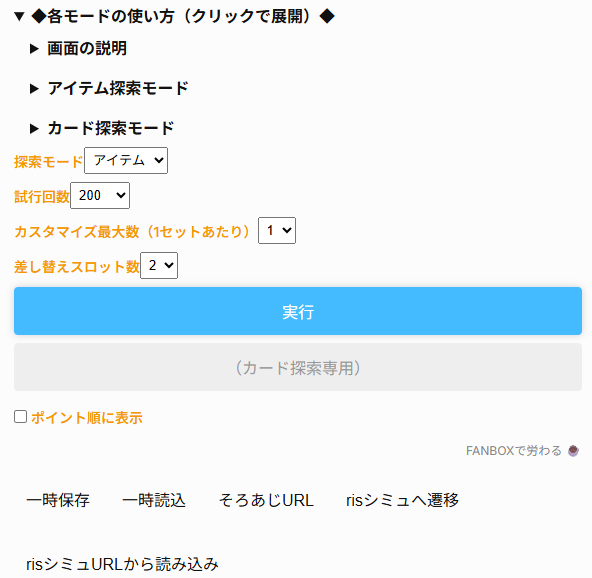
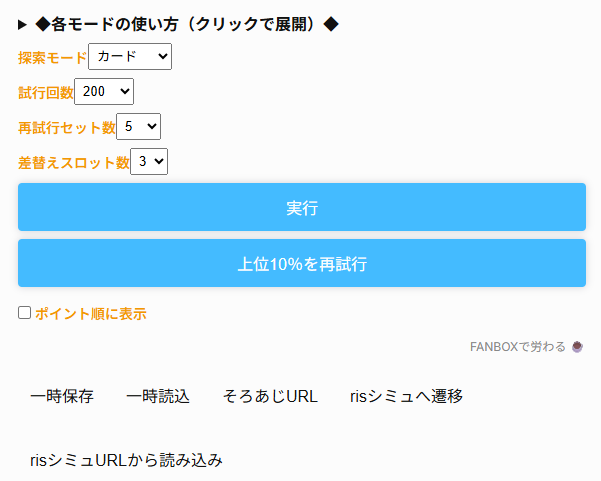
Fixed card explorer logic, details

diff --git a/gakumas-tools/components/DeckExplorer/DeckExplorer.js b/gakumas-tools/components/DeckExplorer/DeckExplorer.js
@@ -100,6 +100,7 @@ export default function DeckExplorer() {
   const [comboPoints, setComboPoints] = useState(new Map()); // 組み合わせが持つポイント
   const [sortByPoints, setSortByPoints] = useState(false); // ポイント順にソート
   const [comboTrialCounts, setComboTrialCounts] = useState(new Map()); // 累計試行回数
+  const [retrySetCount, setRetrySetCount] = useState(1); // 再試行のマルチセット回数
   const [targetSlotCount, setTargetSlotCount] = useState(2); // 入替先スロット候補
   const [running, setRunning] = useState(false);
   const [topCombos, setTopCombos] = useState([]);
@@ -368,57 +369,46 @@ export default function DeckExplorer() {
         await new Promise((r) => setTimeout(r, 0));
       }
     } else if (explorationMode === "card") {
-      // メモリーセット確認
-      if (!loadout.memorySets || !Array.isArray(loadout.memorySets)) {
-        if (loadout.skillCardIdGroups?.[0]) {
-          const fixed = fixLoadout(loadout);
-          setLoadout(fixed);
-          setRunning(false);
-          setTimeout(() => runSimulation(), 0);
-          return;
-        } else {
-          alert("カード探索を行うには memorySets が必要です。");
-          setRunning(false);
-          return;
-        }
+    // --- memorySets の存在チェックと修復処理 ---
+    if (!loadout.memorySets || !Array.isArray(loadout.memorySets) || !loadout.memorySets[0]) {
+      if (loadout.skillCardIdGroups?.[0]) {
+        const fixed = fixLoadout(loadout);
+        setLoadout(fixed);
+        setRunning(false);
+        setTimeout(() => runSimulation(), 0);
+        return;
+      } else {
+        alert("カード探索を行うには memorySets が必要です。");
+        setRunning(false);
+        return;
       }
-      // ターゲットスロット設定
-      const targetSlots = [];
-      const selectedIndices = [2, 3, 4, 5].slice(-targetSlotCount);
+    }
 
-      for (let groupIndex = 0; groupIndex < loadout.memorySets.length; groupIndex++) {
-        for (const slotIndex of selectedIndices) {
-          targetSlots.push({ groupIndex, slotIndex });
-        }
+    // --- ターゲットスロット設定 ---
+    const selectedIndices = [2, 3, 4, 5].slice(-targetSlotCount);
+    const targetSlots = [];
+
+    for (let groupIndex = 0; groupIndex < loadout.memorySets.length; groupIndex++) {
+      for (const slotIndex of selectedIndices) {
+        targetSlots.push({ groupIndex, slotIndex });
       }
+    }
 
-      const seenLoadoutKeys = new Set();
+    // --- 初期化 ---
+    const seenLoadoutKeys = new Set();
 
-      if (!loadout.memorySets || !loadout.memorySets[0]) {
-        if (loadout.skillCardIdGroups?.[0]) {
-          const fixed = fixLoadout(loadout);
-          setLoadout(fixed);
-          setRunning(false);
-          setTimeout(() => runSimulation(), 0);
-          return;
-        } else {
-          alert("カード探索を行うには memorySets[0] が必要です。");
-          setRunning(false);
-          return;
-        }
+    // --- 候補カードの整形 ---
+    const candidateCards = [];
+    for (let i = 0; i < cardCandidates.length; i++) {
+      if (cardCandidates[i]) {
+        candidateCards.push({
+          cardId: cardCandidates[i],
+          customization: cardCustomizationsList[i] || [],
+        });
       }
+    }
 
-      const candidateCards = [];
-      for (let i = 0; i < cardCandidates.length; i++) {
-        if (cardCandidates[i]) {
-          candidateCards.push({
-            cardId: cardCandidates[i],
-            customization: cardCustomizationsList[i] || [],
-          });
-        }
-      }
-
-      const maxReplace = Math.min(candidateCards.length, targetSlots.length);
+    const maxReplace = Math.min(candidateCards.length, targetSlots.length);
 
       // 元構成を常に含める（順序無視のキー）
       {
@@ -515,10 +505,11 @@ export default function DeckExplorer() {
 
             if (skip) continue;
 
-            const overLimit = newLoadout.customizationGroups.some((group) => {
-              return countCustomizations(group) > customizationLimit;
-            });
-            if (overLimit) continue;
+          const overLimit = newLoadout.customizationGroups.some((group, i) => {
+            const originalCount = countCustomizations(loadout.customizationGroups?.[i] || []);
+            return countCustomizations(group) > originalCount;
+          });
+          if (overLimit) continue;
 
             // 順序を無視したカスタマイズ構成による重複検出
             const sortedSets = newLoadout.memorySets.map((set, gi) => {
@@ -585,74 +576,89 @@ export default function DeckExplorer() {
     console.time("resimulation");
 
     const reevaluated = [];
+    const seenKeys = new Set();
 
-    // 上位スコアから再試行対象を選出（最低10%を含める）
     const maxAvg = initialCombos[0].avg;
     const threshold = maxAvg * 0.9;
     const sorted = [...initialCombos].sort((a, b) => b.avg - a.avg);
     const requiredCount = Math.ceil(initialCombos.length * 0.1);
 
-    // 有効な loadout を持つものだけ対象にする
     const selectedCombos = sorted.filter(
       (entry) => entry.avg >= threshold && entry.result?.loadout
     );
 
-    // 不足分をスコア順で追加（安全な loadout を持つものだけ）
     let i = 0;
     while (selectedCombos.length < requiredCount && i < sorted.length) {
       const next = sorted[i];
       i++;
-      if (
-        next?.result?.loadout &&
-        !selectedCombos.includes(next)
-      ) {
+      if (next?.result?.loadout && !selectedCombos.includes(next)) {
         selectedCombos.push(next);
       }
     }
 
-    for (const entry of selectedCombos) {
-      const newLoadout = entry.result?.loadout || loadout;
-      const newConfig = new IdolStageConfig(
-        new IdolConfig(newLoadout),
-        new StageConfig(stage)
-      );
+    for (let setIndex = 0; setIndex < retrySetCount; setIndex++) {
+      const currentSet = [];
 
-      const { result, avg } = await runSimulationWithWorkers(
-        workersRef.current,
-        newConfig,
-        strategy,
-        numRuns
-      );
+      for (let index = 0; index < selectedCombos.length; index++) {
+        const entry = selectedCombos[index];
+        const newLoadout = entry.result?.loadout || loadout;
+        const newConfig = new IdolStageConfig(
+          new IdolConfig(newLoadout),
+          new StageConfig(stage)
+        );
 
-      reevaluated.push({ result: { ...result, loadout: newLoadout }, avg });
-      await new Promise((r) => setTimeout(r, 0));
+        const { result } = await runSimulationWithWorkers(
+          workersRef.current,
+          newConfig,
+          strategy,
+          numRuns
+        );
+
+        const scores = result?.scores || [];
+        const avg = scores.length
+          ? scores.reduce((sum, v) => sum + v, 0) / scores.length
+          : 0;
+
+        const key = getLoadoutKey(newLoadout);
+        seenKeys.add(key);
+
+        const item = {
+          result: { ...result, loadout: newLoadout },
+          avg,
+          key,
+        };
+
+        reevaluated.push(item);
+        currentSet.push(item);
+
+        // 累計試行回数を加算（即時でOK）
+        setComboTrialCounts((prev) => {
+          const updated = new Map(prev);
+          updated.set(key, (updated.get(key) || 0) + numRuns);
+          return updated;
+        });
+
+        await new Promise((r) => setTimeout(r, 0));
+      }
+
+      // セット単位でポイント加算（スコア順に並べ替えて順位に応じて加点）
+      currentSet.sort((a, b) => b.avg - a.avg);
+      setComboPoints((prev) => {
+        const updated = new Map(prev);
+        currentSet.forEach((entry, index) => {
+          const points = Math.max(0, 20 - index);
+          updated.set(entry.key, (updated.get(entry.key) || 0) + points);
+        });
+        return updated;
+      });
     }
 
-    // 組み合わせにポイント加算
-    setComboPoints((prev) => {
-      const updated = new Map(prev);
-      reevaluated.forEach((entry, index) => {
-        const key = getLoadoutKey(entry.result.loadout);
-        const points = Math.max(0, 20 - index);
-        updated.set(key, (updated.get(key) || 0) + points);
-      });
-      return updated;
-    });
-
-    // 累計試行回数加算
-    setComboTrialCounts((prev) => {
-      const updated = new Map(prev);
-      reevaluated.forEach((entry) => {
-        const key = getLoadoutKey(entry.result.loadout);
-        updated.set(key, (updated.get(key) || 0) + numRuns);
-      });
-      return updated;
-    });
-
+    // 最終並び替えと表示
     reevaluated.sort((a, b) => b.avg - a.avg);
     const top5 = reevaluated.slice(0, 5);
     setSimulatorData(reevaluated[0]?.result || null);
-    setTopCombos(top5); // 上位5件のみ表示
+    setTopCombos(top5);
+
     setRunning(false);
     console.timeEnd("resimulation");
     console.log(`カード探索で実行された構成数: ${reevaluated.length}`);
@@ -798,9 +804,9 @@ export default function DeckExplorer() {
                 <p>② カード候補：検証したいカードをセットするスロット。</p>
                 <p>③ 探索モード：「アイテム」と「カード」の2種の探索モードを設定。</p>
                 <p>④ 試行回数：シミュの回転数の設定。各組み合わせに対して適用される。</p>
-                <p>⑤ カスタム最大数：メモリー1枚あたりのカスタム最大数を設定。</p>
+                <p>⑤ 再試行セット数：再試行をセットで回す回数を設定。</p>
                 <p>⑥ 差替えスロット数：メモリー1枚あたりの差替えカード数を設定。</p>
-                <p>⑦ ポイント順：カード探索モードの表示をポイント順位ソート。</p>
+                <p>⑦ ポイント順で表示：カード探索モードの結果表示をポイント順でソート。</p>
               </div>
             </details>
 
@@ -823,15 +829,17 @@ export default function DeckExplorer() {
                 <p>最適デッキを探索するモード。</p>
                 <p>① デッキを組む（risシミュと同様）。</p>
                 <p>② カード候補にカスタム等を含めたカードをセット。</p>
-                <p>③ 探索モードを「カード」に設定。試行回数・差替えスロット数も任意の数に設定。</p>
+                <p>③ 探索モードを「カード」に設定。試行回数も任意の数に設定。</p>
                 <p>※差替えスロットは右から数える（左から1・2スロット目はアイドル固有とサポカを考慮し差替え対象外。1・2スロット目にカスタムされた通常カードを設定する場合はカスタム数に注意）。</p>
                 <p>④ 「実行」ボタンを押下。</p>
                 <p>⑤ スコア（平均）が高い順に最大5組の結果が表示される。</p>
-                <p>⑥ 「上位10％を再試行」ボタンを押下。実行するたびに各組み合わせに対しポイントが加算される。</p>
-                <p>※ポイントについて：スコアが高く出やすい組み合わせを評価するための指標。ポイントが高いほど高いスコアがでやすい。</p>
+                <p>⑥ 「上位10％を再試行」ボタンを押下。実行するたびに各組み合わせに対しポイントが加算される。この時「再試行セット数」を設定すると指定したセット数で実行する。</p>
+                <p>※ポイントについて：スコアが高く出やすい組み合わせを評価するための指標。ポイントが高いほどスコアがでやすい組み合わせ。</p>
                 <p>⑦ 「ポイント順」にチェックを入れて、ポイントの高い組み合わせを確認する。「risシミュ」をクリックするとその組み合わせでrisシミュに遷移する。納得する結果が得られたら終了。</p>
                 <p className={styles.warning}>
-                  ※ カード候補・差替えスロット数・試行回数を増加させると重くなるので、④の実行時は試行回数を200程度に制限推奨。
+                  ・カード候補／試行回数／再試行セット数／差替えスロット数を増加させると重くなるので、④実行時は試行回数を200程度に制限推奨。<br />
+                  ・カスタム数はセットされたデッキの各メモリーセット毎に合わせて自動的に設定される。<br />
+                  ・ポイントは再度「実行」ボタンを押下したタイミングでリセットされる。
                 </p>
                 <img src="/deckexplorer/04.png" alt="カード探索の結果" />
               </div>
@@ -840,8 +848,9 @@ export default function DeckExplorer() {
         </details>
 
         <div className={styles.supportBonusInput}>
-          <label>探索モード</label>
+          <label htmlFor="mode">探索モード</label>
           <select
+            id="mode"
             value={explorationMode}
             onChange={(e) => setExplorationMode(e.target.value)}
             style={{ padding: "4px" }}
@@ -850,30 +859,16 @@ export default function DeckExplorer() {
             <option value="card">カード</option>
           </select>
         </div>
-        
-        <div className={styles.supportBonusInput}>
-          <label>試行回数</label>
-            <select
-              value={numRuns}
-              onChange={(e) => setNumRuns(Number(e.target.value))}
-              style={{ padding: "4px" }}
-            >
-              {[20, 50, 100, 200, 400, 1000, 2000].map((n) => (
-                <option key={n} value={n}>
-                  {n}
-                </option>
-              ))}
-            </select>
-        </div>
 
         <div className={styles.supportBonusInput}>
-          <label>カスタム最大数</label>
+          <label htmlFor="numRuns">試行回数</label>
           <select
-            value={customizationLimit}
-            onChange={(e) => setCustomizationLimit(Number(e.target.value))}
+            id="numRuns"
+            value={numRuns}
+            onChange={(e) => setNumRuns(Number(e.target.value))}
             style={{ padding: "4px" }}
           >
-            {[1, 2].map((n) => (
+            {[20, 50, 100, 200, 400, 1000, 2000].map((n) => (
               <option key={n} value={n}>
                 {n}
               </option>
@@ -882,8 +877,24 @@ export default function DeckExplorer() {
         </div>
 
         <div className={styles.supportBonusInput}>
-          <label>差替えスロット数</label>
+          <label>再試行セット数</label>
           <select
+            value={retrySetCount}
+            onChange={(e) => setRetrySetCount(Number(e.target.value))}
+            style={{ padding: "4px" }}
+          >
+            {Array.from({ length: 10 }, (_, i) => i + 1).map((n) => (
+              <option key={n} value={n}>
+                {n}
+              </option>
+            ))}
+          </select>
+        </div>
+
+        <div className={styles.supportBonusInput}>
+          <label htmlFor="targetSlotCount">差替えスロット数</label>
+          <select
+            id="targetSlotCount"
             value={targetSlotCount}
             onChange={(e) => setTargetSlotCount(Number(e.target.value))}
             style={{ padding: "4px" }}
